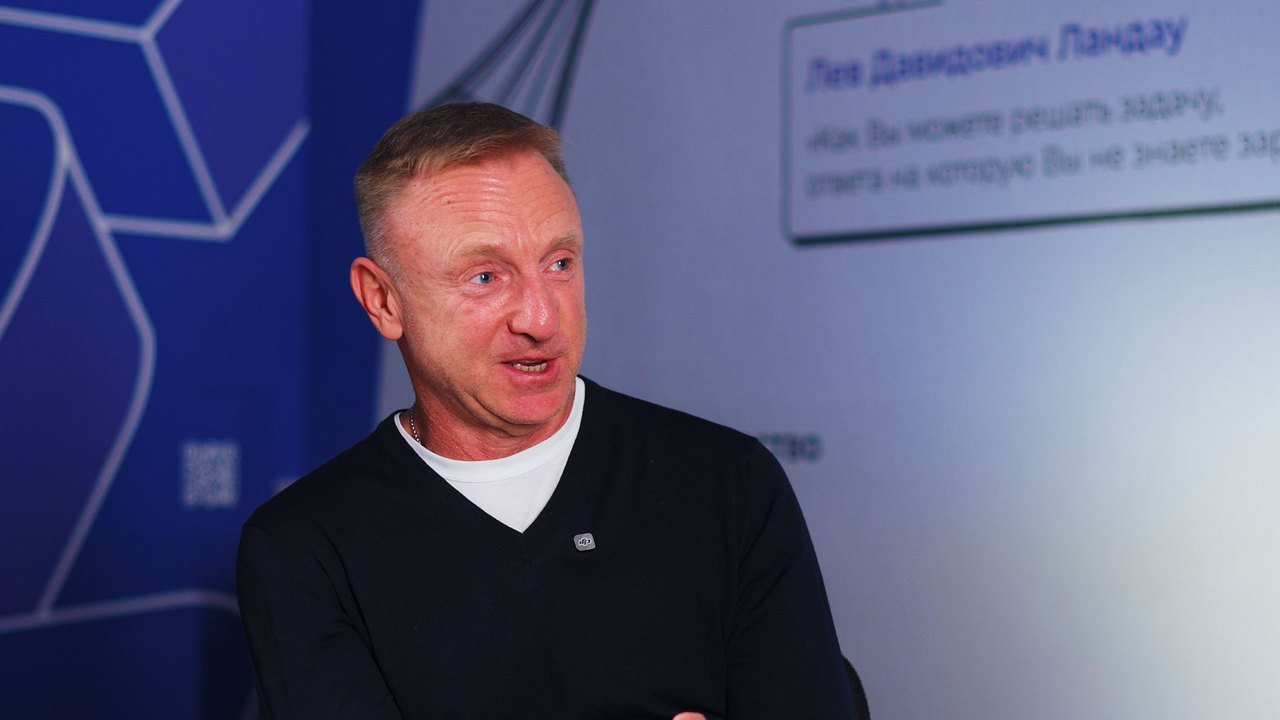
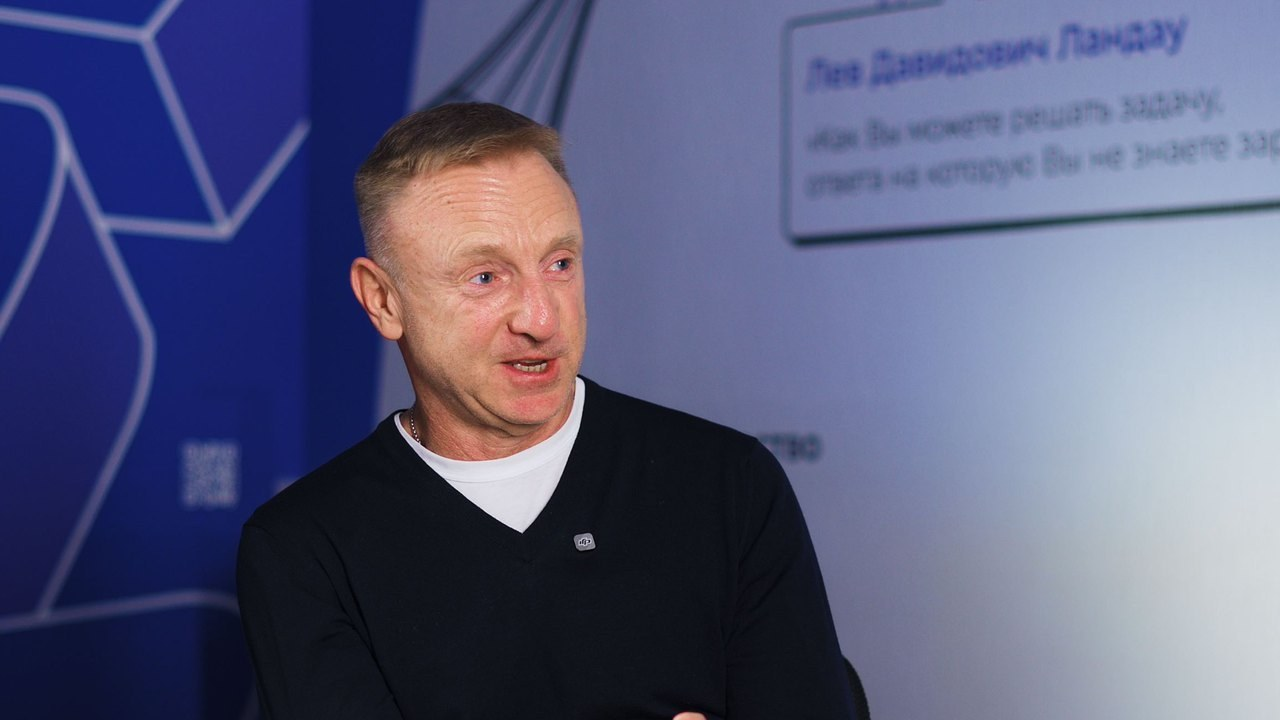
Фото Ливанова и Волошина: убрана краснота кожи; сброс кэша картинок

Changed region(s): [[0.25, 0.2139, 0.4688, 0.6417], [0.5312, 0.9778, 0.5625, 1.0]]

diff --git a/index.html b/index.html
@@ -92,9 +92,9 @@
         {u:'vypuski/aleksandr-gasnikov/#novyy-vypusk',d:'2026-10-26',p:'assets/photo/soon/aleksandr-gasnikov.jpg',n:'Александр Гасников',r:'Ректор Университета Иннополис, математик'},
         {u:'vypuski/sergey-samoylenko/',d:'2026-10-30',p:'assets/photo/soon/sergey-samoylenko.jpg',n:'Сергей Самойленко',r:'Вулканолог, физик, популяризатор науки'},
         {u:'vypuski/elena-mironenko/',d:'2026-11-02',p:'assets/photo/soon/elena-mironenko.jpg',n:'Елена Мироненко',r:'Генеральный директор музея «АТОМ»'},
-        {u:'vypuski/dmitriy-livanov/',d:'2026-11-06',p:'assets/photo/soon/dmitriy-livanov.jpg',n:'Дмитрий Ливанов',r:'Ректор МФТИ'},
+        {u:'vypuski/dmitriy-livanov/',d:'2026-11-06',p:'assets/photo/soon/dmitriy-livanov.jpg?v=20261024',n:'Дмитрий Ливанов',r:'Ректор МФТИ'},
         {u:'vypuski/alina-osmakova/',d:'2026-11-09',p:'assets/photo/soon/alina-osmakova.jpg',n:'Алина Осьмакова',r:'ФИЦ биотехнологии РАН, научные коммуникации'},
-        {u:'vypuski/vladimir-voloshin/',d:'2026-11-13',p:'assets/photo/soon/vladimir-voloshin.jpg',n:'Владимир Волошин',r:'Сооснователь IRONSTAR и ROSA RUN'},
+        {u:'vypuski/vladimir-voloshin/',d:'2026-11-13',p:'assets/photo/soon/vladimir-voloshin.jpg?v=20261024',n:'Владимир Волошин',r:'Сооснователь IRONSTAR и ROSA RUN'},
         {u:'vypuski/anna-stepanova/',d:'2026-11-16',p:'assets/photo/soon/anna-stepanova.jpg',n:'Анна Степанова',r:'Образовательные проекты VK'},
         {u:'vypuski/aleksandr-pushnoy/',d:'2026-11-20',p:'assets/photo/soon/aleksandr-pushnoy.jpg',n:'Александр Пушной',r:'Физик по образованию, музыкант, ведущий «Галилео»'},
         {u:'vypuski/aleksey-egorov/',d:'2026-11-23',p:'assets/photo/soon/aleksey-egorov.jpg',n:'Алексей Егоров',r:'Журналист, ведущий телеканала «Наука»'},

diff --git a/vypuski/vladimir-voloshin/index.html b/vypuski/vladimir-voloshin/index.html
@@ -68,7 +68,7 @@
           Разговор выйдет 13 ноября 2026. В день выхода здесь появятся плеер VK Видео, ссылки на YouTube и Rutube,
           ключевые тезисы и цитаты.</div>
     </div>
-    <div class="ep-photo is-cover"><img src="../../assets/photo/soon/vladimir-voloshin.jpg" alt="Владимир Волошин" width="1280" height="720"></div>
+    <div class="ep-photo is-cover"><img src="../../assets/photo/soon/vladimir-voloshin.jpg?v=20261024" alt="Владимир Волошин" width="1280" height="720"></div>
   </div>
 </div>
 <div class="ep-grid"><div class="wrap">

diff --git a/vypuski/dmitriy-livanov/index.html b/vypuski/dmitriy-livanov/index.html
@@ -68,7 +68,7 @@
           Разговор выйдет 6 ноября 2026. В день выхода здесь появятся плеер VK Видео, ссылки на YouTube и Rutube,
           ключевые тезисы и цитаты.</div>
     </div>
-    <div class="ep-photo is-cover"><img src="../../assets/photo/soon/dmitriy-livanov.jpg" alt="Дмитрий Ливанов" width="1280" height="720"></div>
+    <div class="ep-photo is-cover"><img src="../../assets/photo/soon/dmitriy-livanov.jpg?v=20261024" alt="Дмитрий Ливанов" width="1280" height="720"></div>
   </div>
 </div>
 <div class="ep-grid"><div class="wrap">
